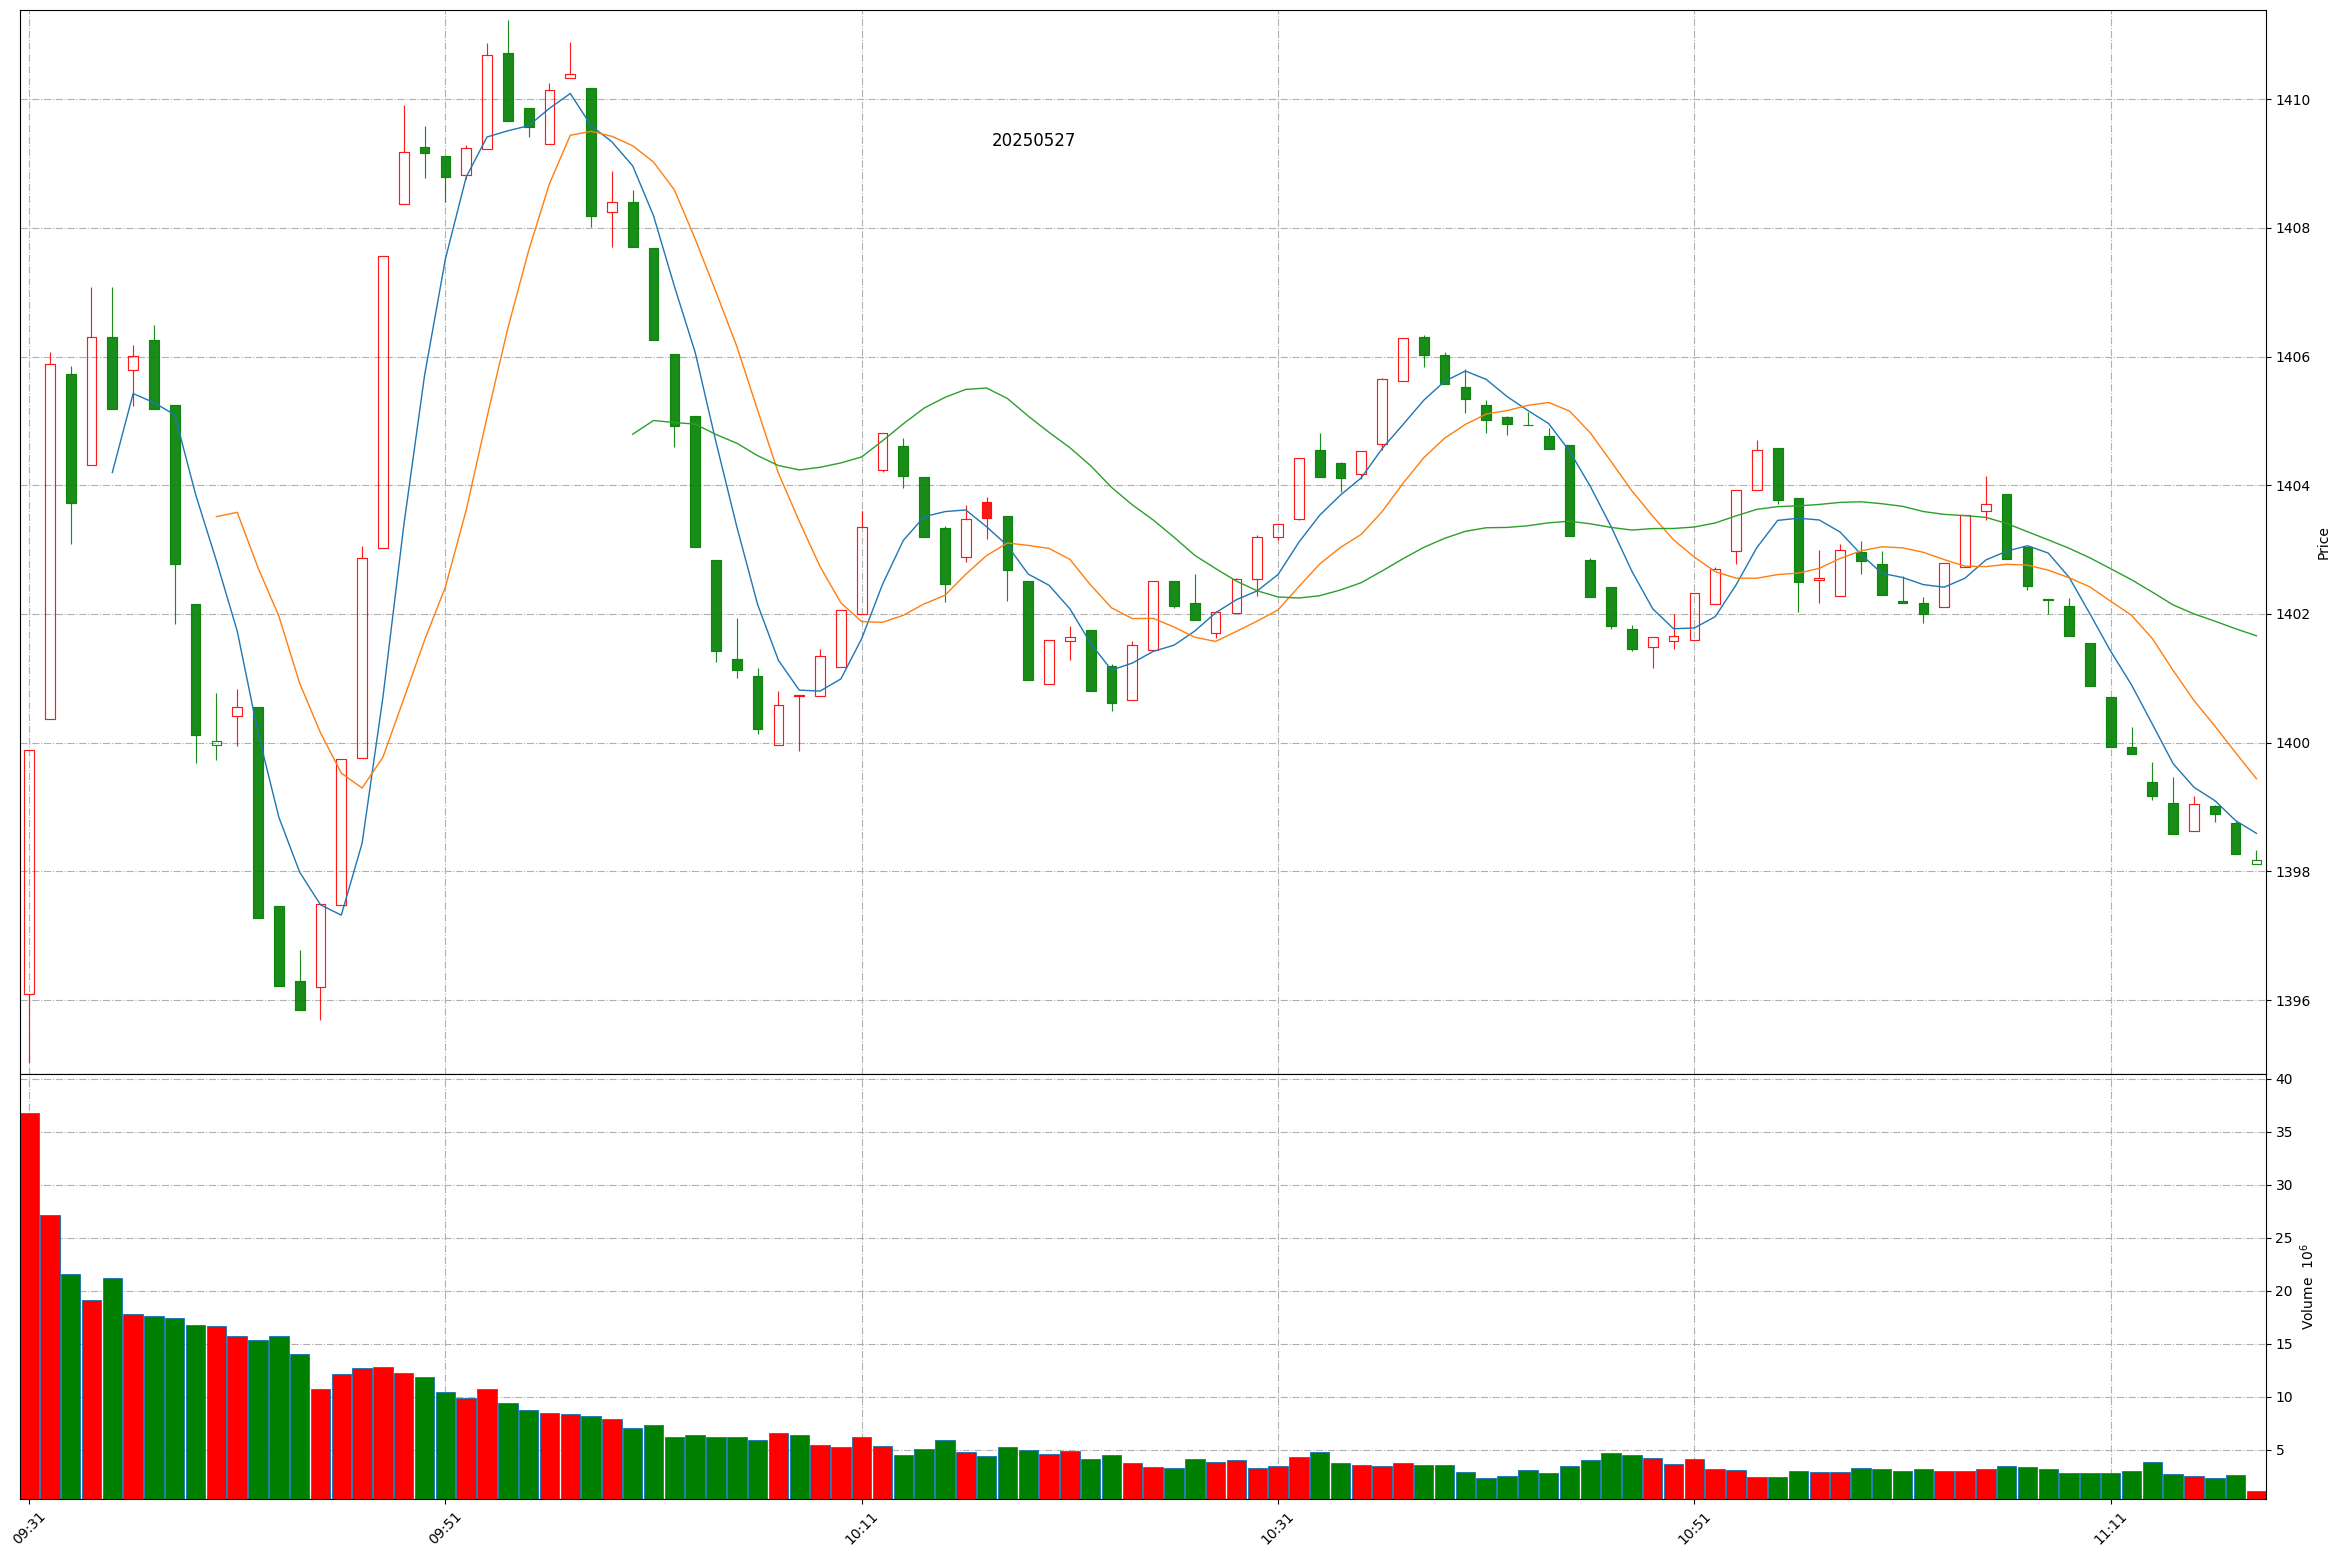
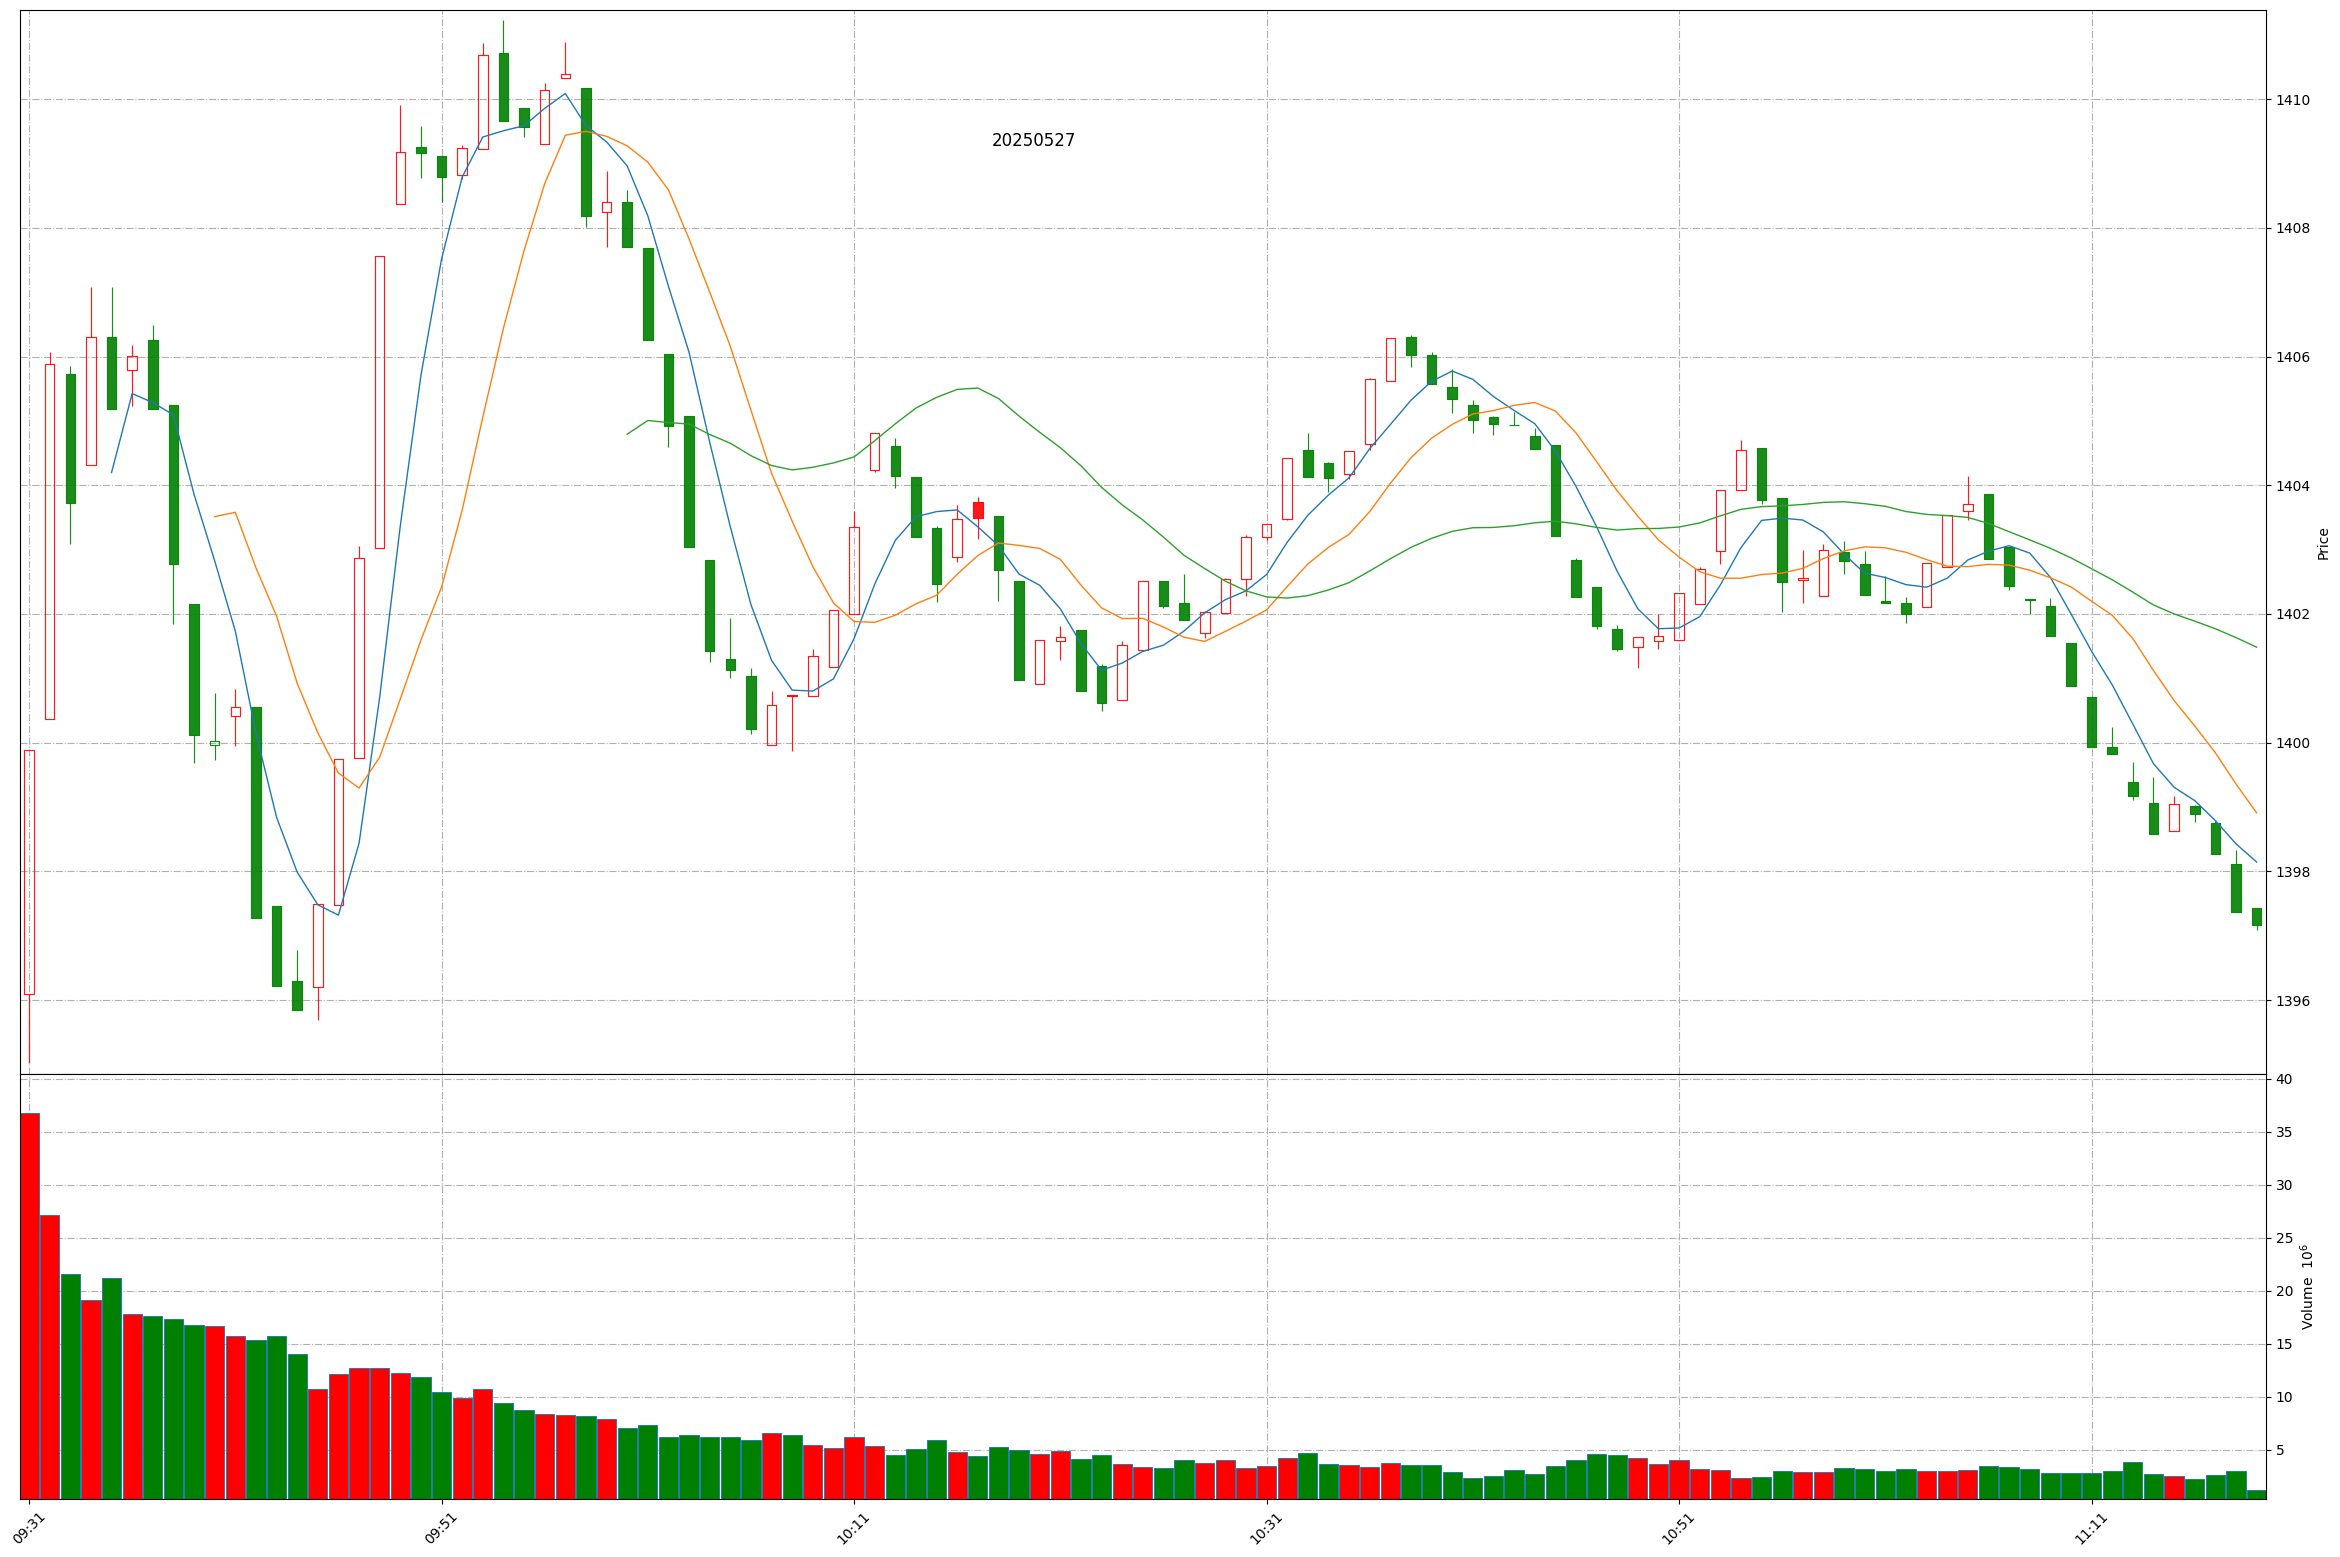
Github action update at 2025-05-27 11:18:32.

diff --git a/README.md b/README.md
@@ -1,11 +1,11 @@
 
 # Daily-A-share-market-quotes 每日 A 股指数（5min 更新）- 20250527
 
-### 上证指数 20250527 11:17
+### 上证指数 20250527 11:18
 ![](./fig/2025/5/20250527-sh000001.png)
 
-### 深证成指 20250527 11:17
+### 深证成指 20250527 11:18
 ![](./fig/2025/5/20250527-sz399001.png)
 
-### 北证50 20250527 11:17
+### 北证50 20250527 11:18
 ![](./fig/2025/5/20250527-bj899050.png)
